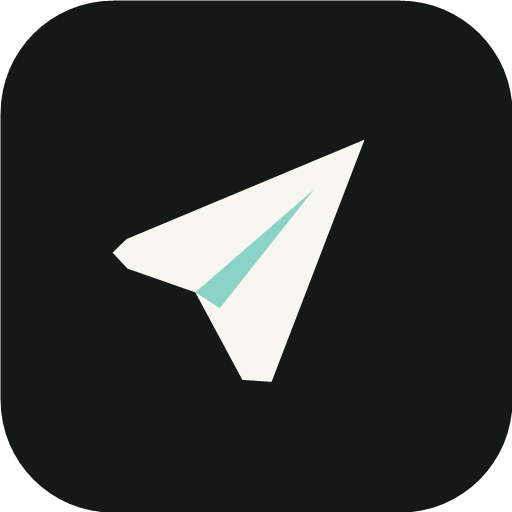
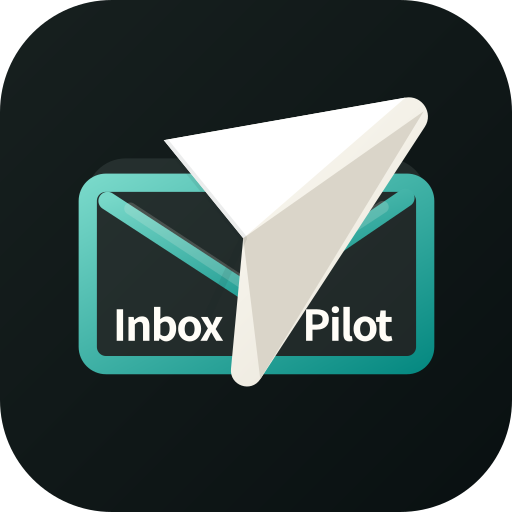
Update InboxPilot brand assets

diff --git a/src/components/layout/site-header.tsx b/src/components/layout/site-header.tsx
@@ -27,25 +27,15 @@ export async function SiteHeader() {
   return (
     <header className="sticky top-0 z-50 px-3 pt-3 sm:px-5">
       <div className="liquid-glass mx-auto grid h-16 max-w-[1500px] grid-cols-[minmax(0,1fr)_auto_minmax(0,1fr)] items-center rounded-xl bg-[#f7f6f1]/70 px-4 sm:px-6">
-        <Link href="/" className="flex min-w-0 items-center gap-3 justify-self-start">
-          <span className="flex size-9 items-center justify-center overflow-hidden rounded-md bg-[#141817] shadow-sm">
-            <Image
-              src="/brand/inboxpilot-logo-120.png"
-              alt="InboxPilot logo"
-              width={36}
-              height={36}
-              className="size-9"
-              priority
-            />
-          </span>
-          <span>
-            <span className="block text-sm font-semibold leading-4">
-              InboxPilot
-            </span>
-            <span className="block text-xs text-[#68716d]">
-              Email triage
-            </span>
-          </span>
+        <Link href="/" className="flex min-w-0 items-center justify-self-start">
+          <Image
+            src="/brand/inboxpilot-horizontal-dark.svg"
+            alt="InboxPilot"
+            width={210}
+            height={60}
+            className="h-11 w-auto drop-shadow-sm sm:h-12"
+            priority
+          />
         </Link>
 
         <nav className="hidden items-center gap-3 justify-self-center md:flex">

diff --git a/src/app/layout.tsx b/src/app/layout.tsx
@@ -20,6 +20,7 @@ export const metadata: Metadata = {
     "Mode-aware inbox triage, prioritization, task tracking, and AI-assisted reply workflows.",
   icons: {
     icon: [
+      { url: "/brand/inboxpilot-icon.svg", type: "image/svg+xml" },
       { url: "/brand/inboxpilot-logo-120.png", sizes: "120x120", type: "image/png" },
       { url: "/brand/inboxpilot-logo-512.png", sizes: "512x512", type: "image/png" },
     ],
